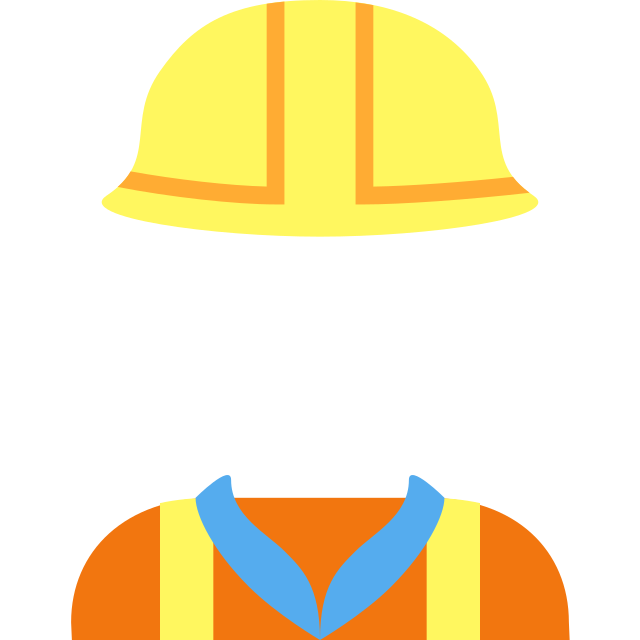
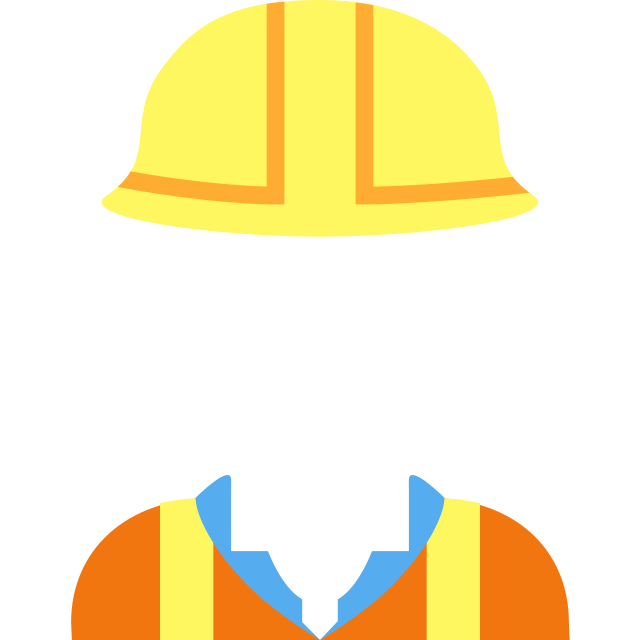
Punch construction worker neckline transparent

Changed region(s): [[0.3438, 0.75, 0.6562, 1.0]]

diff --git a/src/modules/looks/twemoji-overlays.test.js b/src/modules/looks/twemoji-overlays.test.js
@@ -67,8 +67,15 @@ describe('costume covers punch out the whole face, not only the eyes', () => {
                 if (px.a <= 24) { opened = true; break; }
             }
             expect(opened, `${slug} face opening`).toBe(true);
-            const body = await probePixel(buf, 0.5, 0.95);
-            expect(body.a, `${slug} uniform body`).toBeGreaterThanOrEqual(220);
+            let bodyOpaque = false;
+            for (const fx of [0.2, 0.35, 0.5, 0.65, 0.8]) {
+                for (const fy of [0.8, 0.9, 0.98]) {
+                    const px = await probePixel(buf, fx, fy);
+                    if (px.a >= 220) { bodyOpaque = true; break; }
+                }
+                if (bodyOpaque) break;
+            }
+            expect(bodyOpaque, `${slug} uniform body`).toBe(true);
         }
     });
 });
